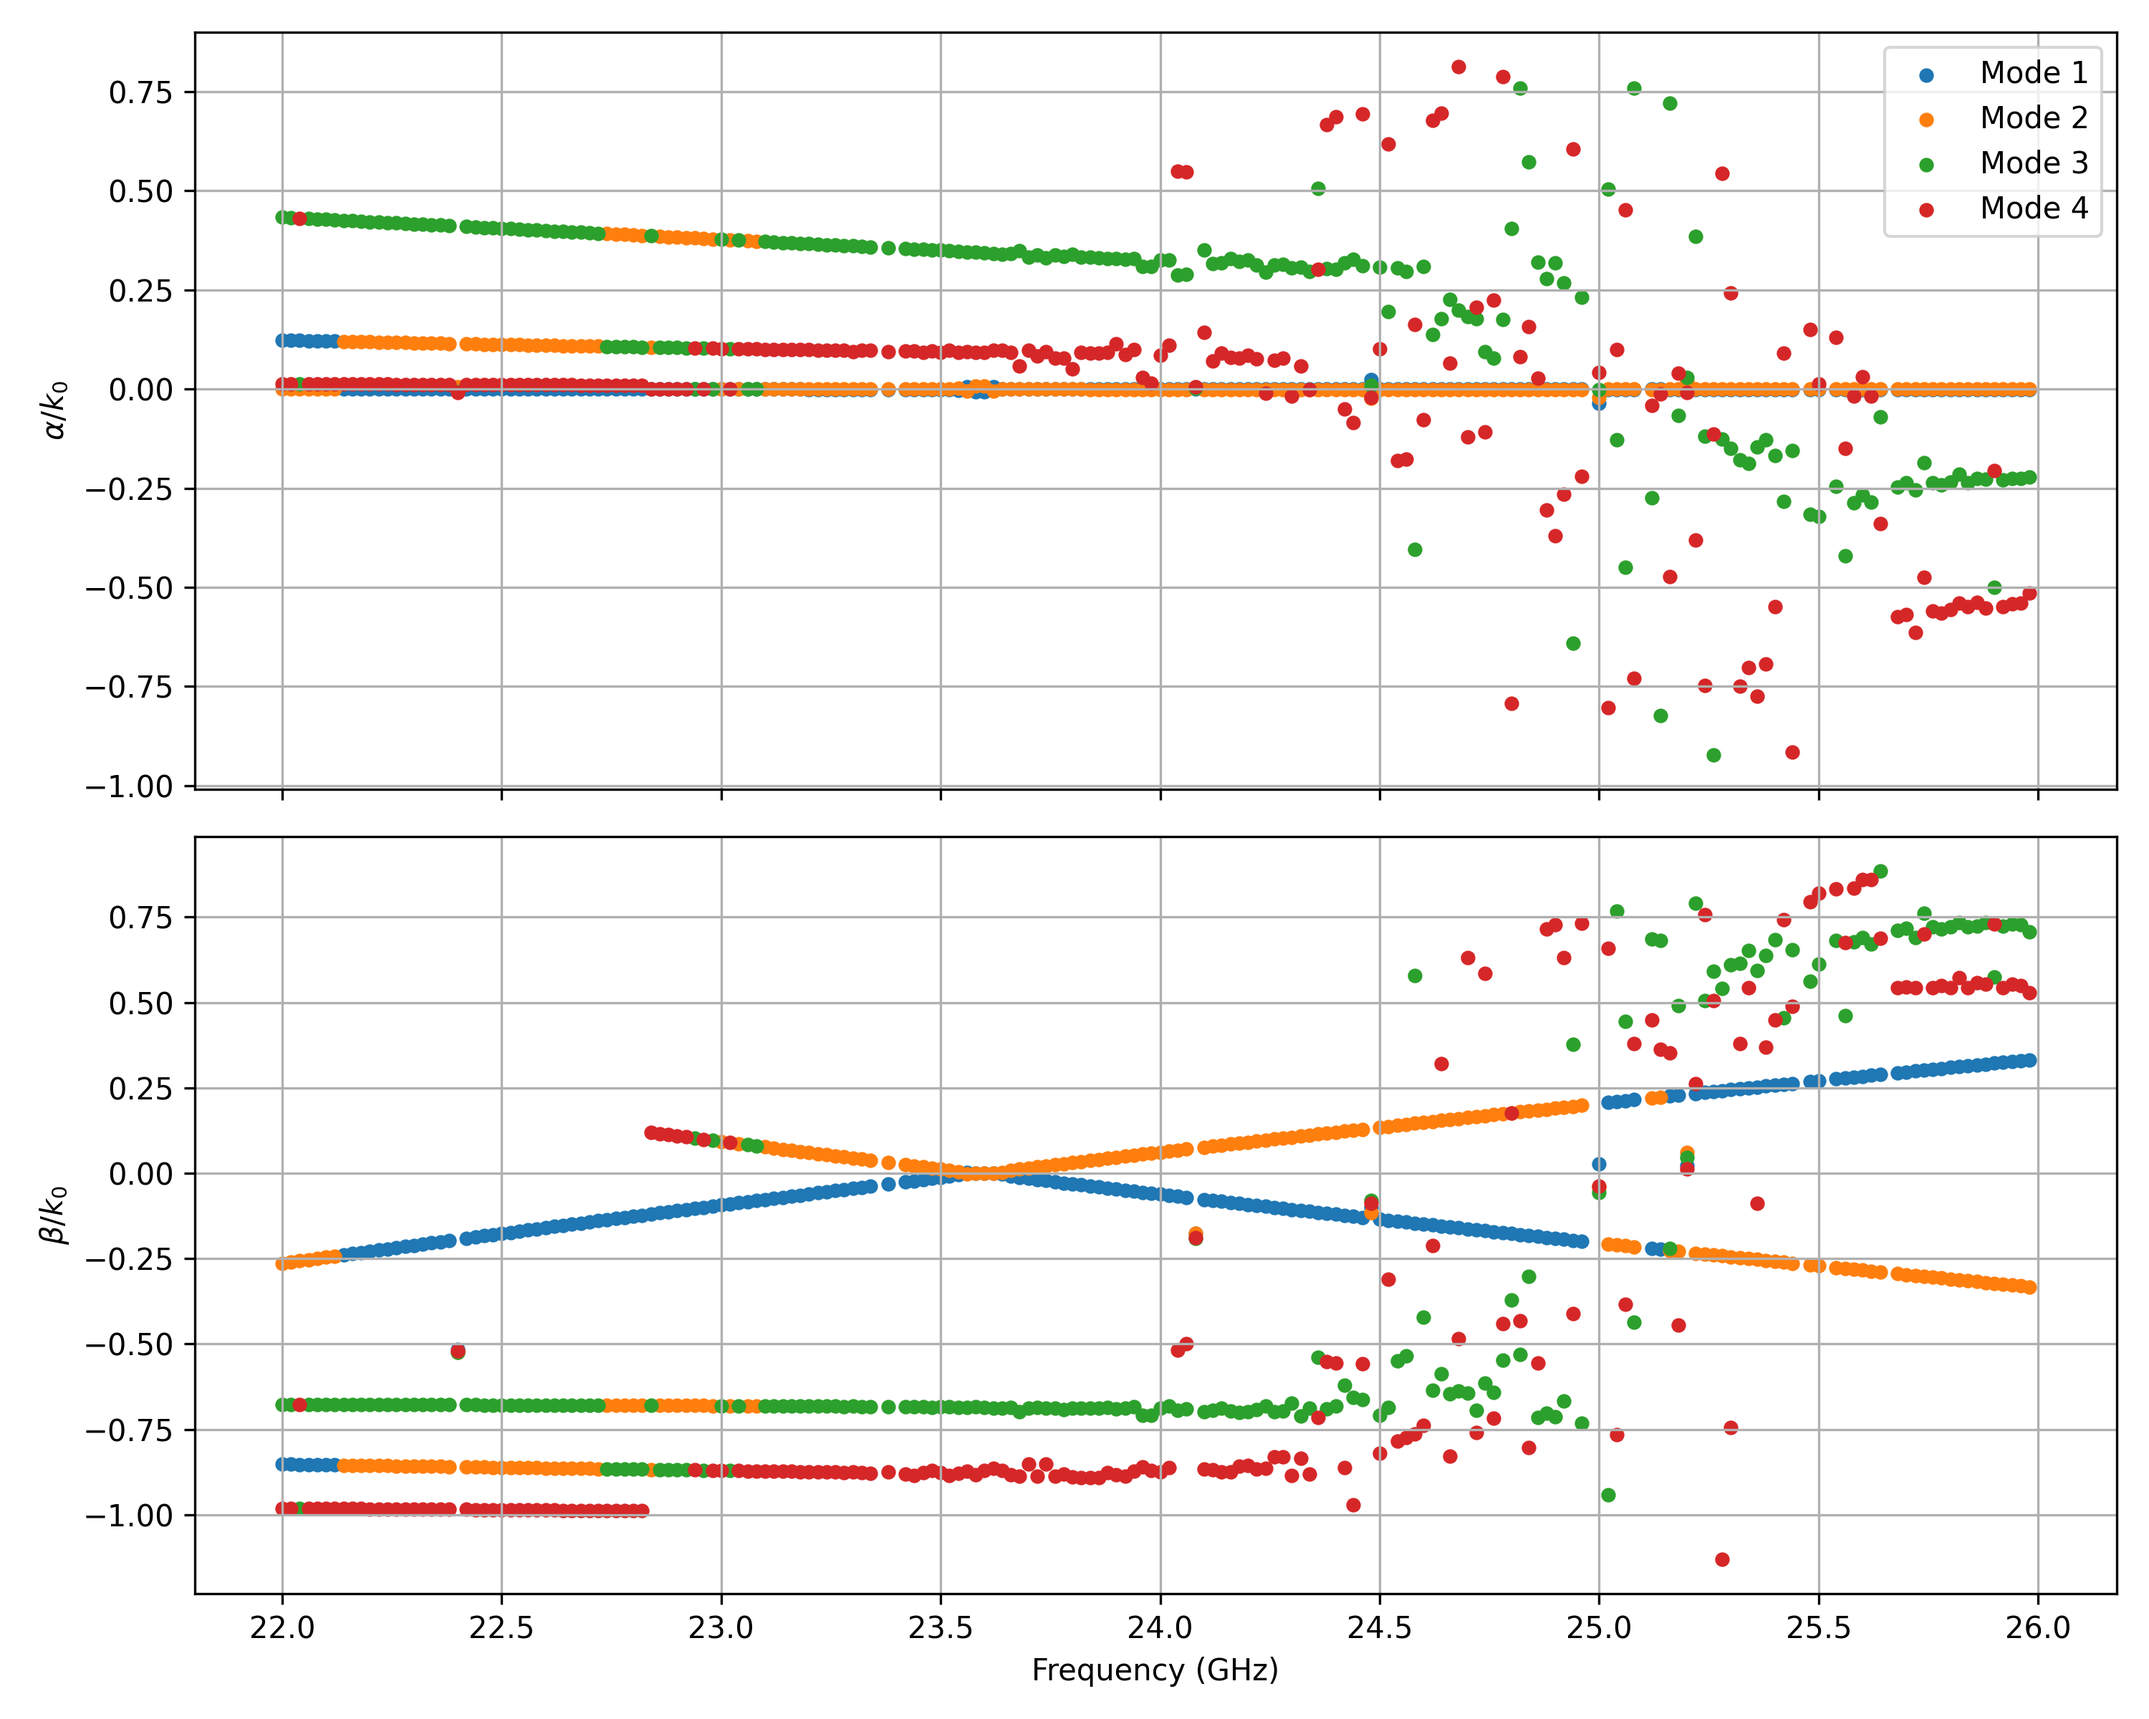
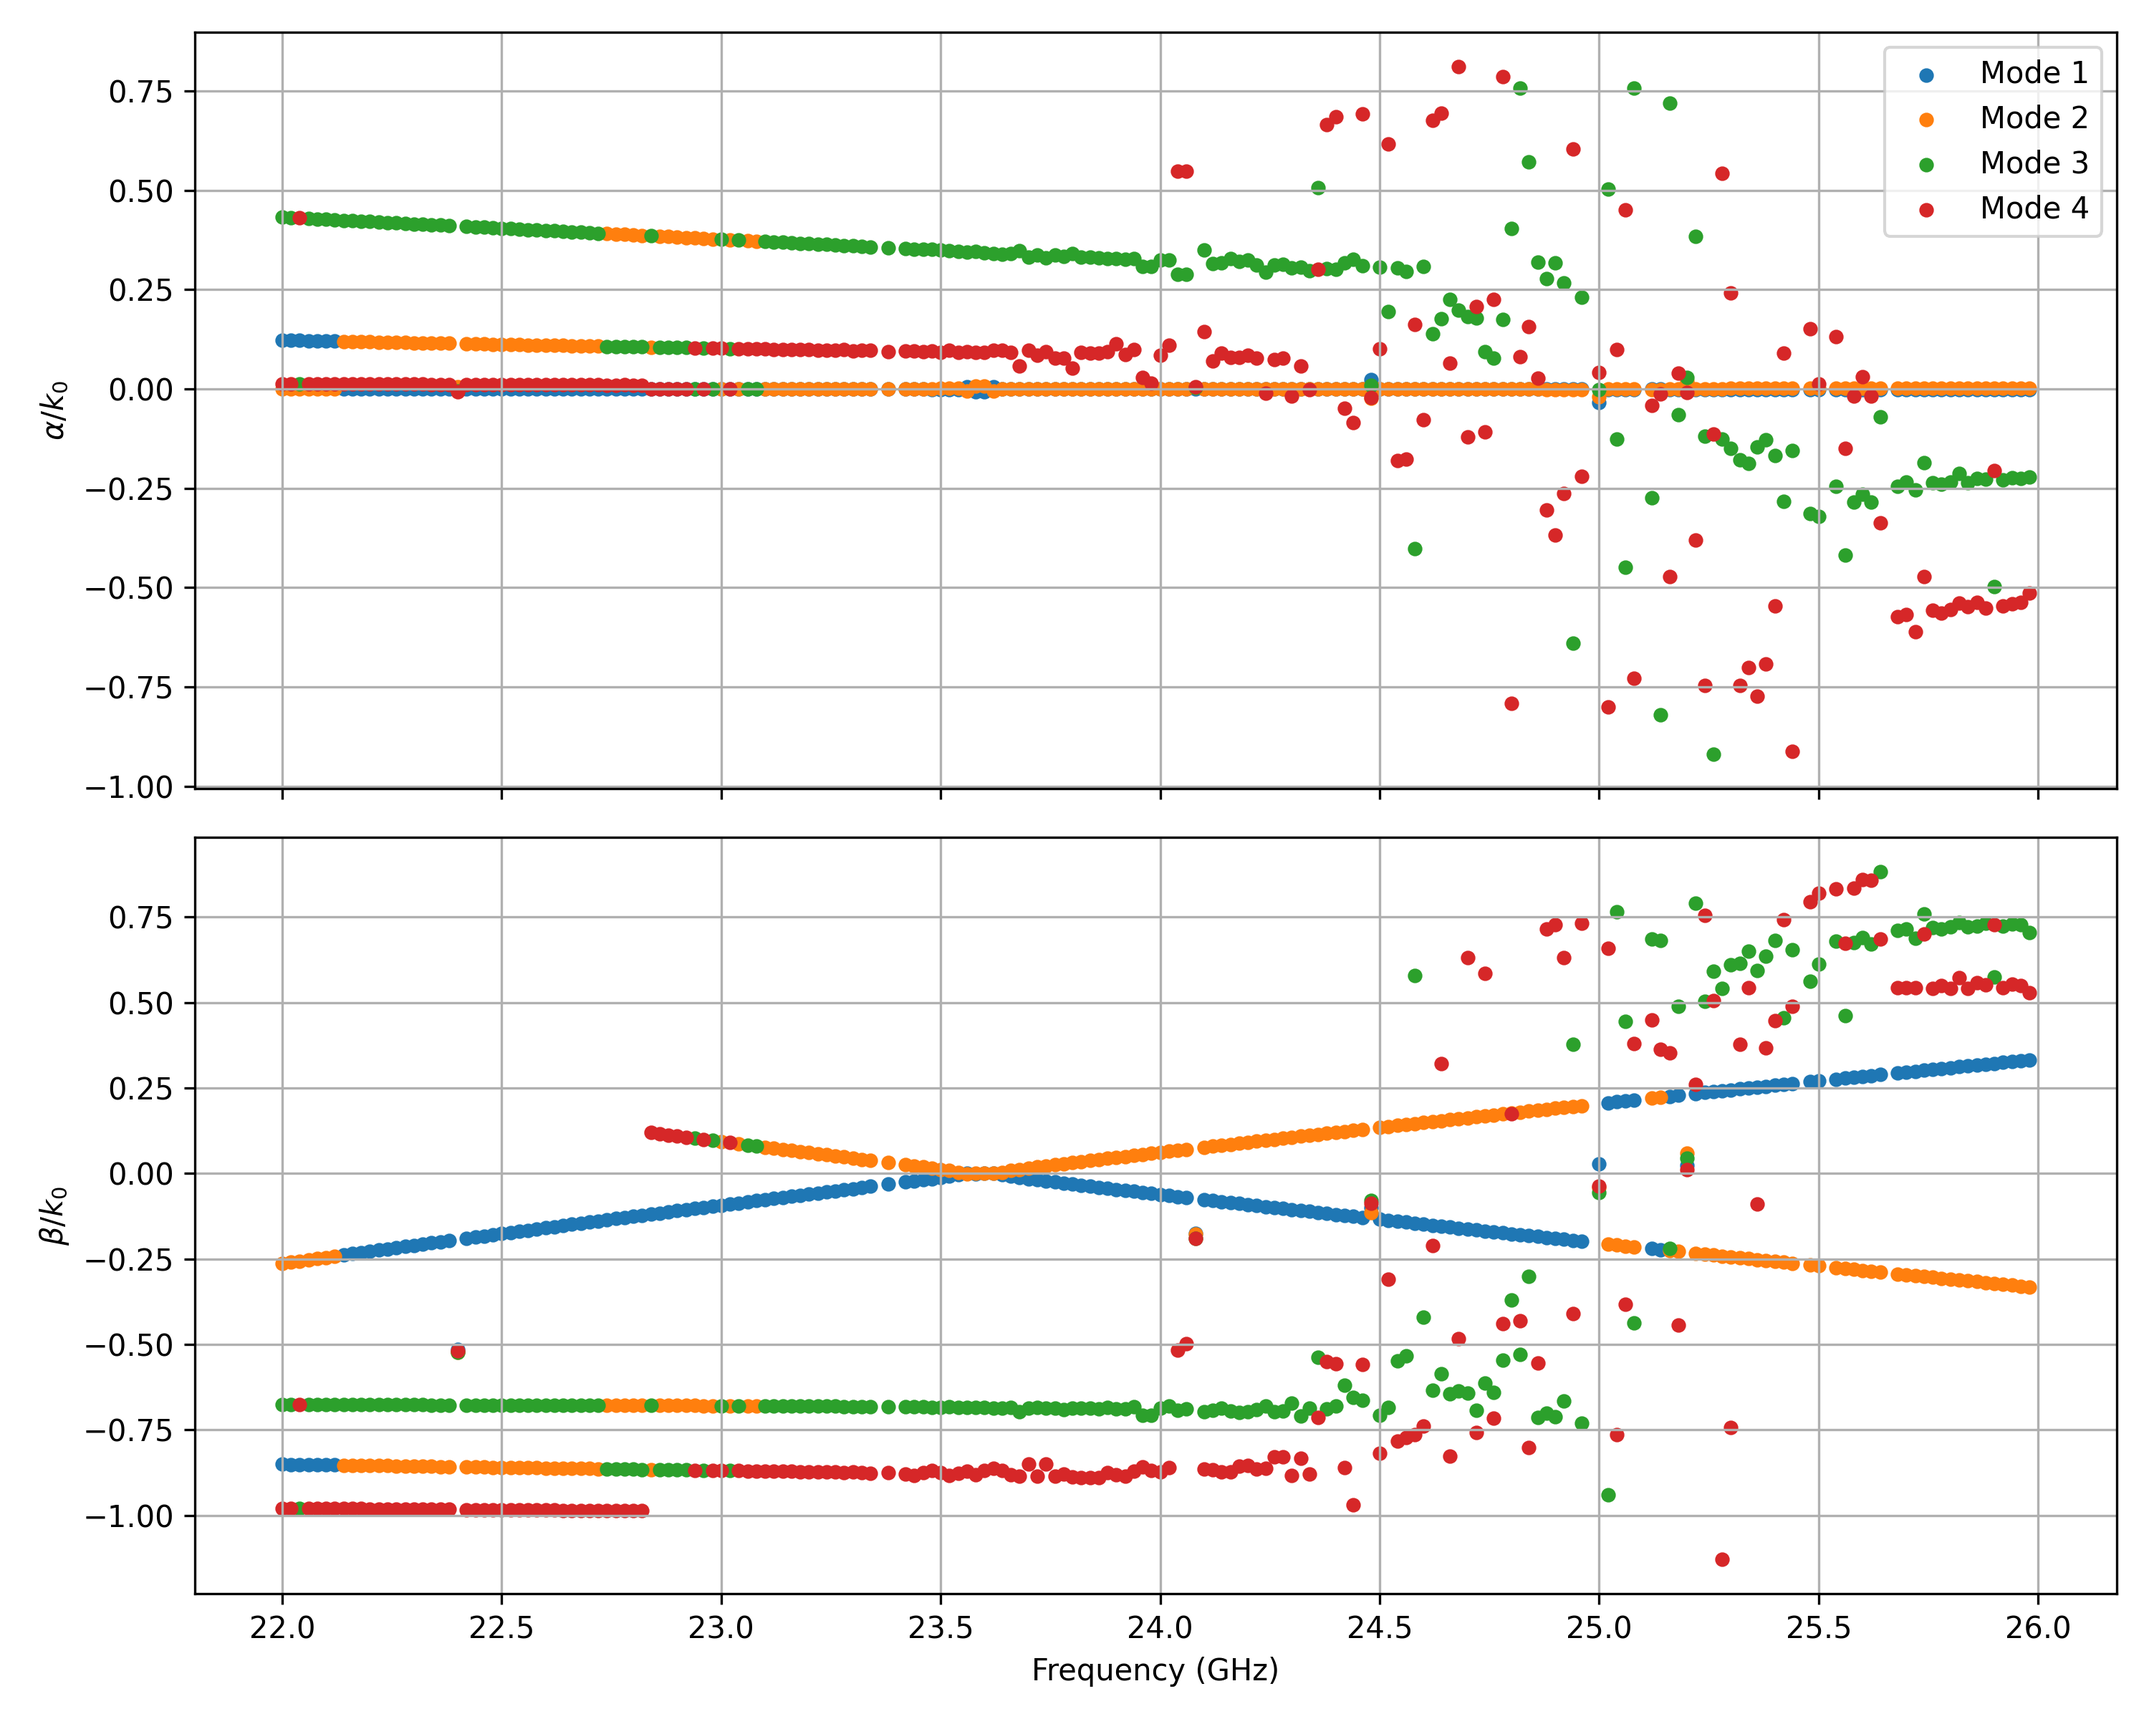
Update the 3D solver

diff --git a/Periodic_3D/Periodic_Mode_Solver_3D.py b/Periodic_3D/Periodic_Mode_Solver_3D.py
@@ -9,7 +9,7 @@ from scipy.sparse.linalg import eigs
 
 
 class Periodic_3D_Mode_Solver:
-    def __init__(self, Nx, Ny, Nz, x_range, y_range, z_range, freq, num_modes, sigma_guess_func=None, tol=0):
+    def __init__(self, Nx, Ny, Nz, x_range, y_range, z_range, freq, num_modes, sigma_guess_func=None, tol=0, ncv=None):
         # Store parameters
         self.Nx = Nx
         self.Ny = Ny
@@ -33,6 +33,7 @@ class Periodic_3D_Mode_Solver:
             self.sigma_guess = 0
 
         self.tol = tol
+        self.ncv = ncv
 
         # Grids
         self.Ix, self.Iy, self.Iz = eye(Nx), eye(Ny), eye(Nz)
@@ -177,7 +178,8 @@ class Periodic_3D_Mode_Solver:
                   [Zero, Zero, B_diag.conj().T, Zero], [Zero, Zero, Zero, B_diag.conj().T]]).tocsr()
 
         # Solve
-        self.eigenvalues, self.eigenvectors = eigs(A, M=B, k=self.num_modes, sigma=self.sigma_guess, tol=self.tol)
+        self.eigenvalues, self.eigenvectors = eigs(A, M=B, k=self.num_modes, sigma=self.sigma_guess, tol=self.tol,
+                                                   ncv=self.ncv)
         self.gammas = self.eigenvalues / self.k0
         self.store_fields()
 

diff --git a/Periodic_2D/Periodic_Mode_Solver.py b/Periodic_2D/Periodic_Mode_Solver.py
@@ -9,7 +9,7 @@ from scipy.sparse.linalg import eigs
 
 
 class TM_Mode_Solver:
-    def __init__(self, freq=24e9, x_range=20e-3, z_range=5e-3, Nx=200, Nz=50, num_modes=6, guess=0):
+    def __init__(self, freq=24e9, x_range=20e-3, z_range=5e-3, Nx=200, Nz=50, num_modes=6, guess=0, tol=0, ncv=None):
         self.freq = freq
         self.Nx, self.Nz = Nx, Nz
         self.dx, self.dz = x_range / Nx, z_range / Nz
@@ -25,6 +25,9 @@ class TM_Mode_Solver:
         self.guess = guess
         self.eigenvectors = None
         self.gammas = None
+
+        self.tol = tol
+        self.ncv = ncv
 
         self._init_operators()
         self._init_materials()
@@ -312,7 +315,7 @@ class TE_Mode_Solver:
         A = bmat([[self.DHZ, D1], [D2, self.DEZ]]).tocsr()
         B = bmat([[self.D3, Zero], [Zero, self.D4]]).tocsr()
 
-        eigenvalues, eigenvectors = eigs(A, M=B, k=self.num_modes, sigma=self.guess)
+        eigenvalues, eigenvectors = eigs(A, M=B, k=self.num_modes, sigma=self.guess, tol=tol, ncv=ncv)
         self.eigenvectors = eigenvectors
         self.gammas = eigenvalues / self.k0
 

diff --git a/Periodic_2D/Freq_Sweep.py b/Periodic_2D/Freq_Sweep.py
@@ -33,7 +33,7 @@ for f in tqdm(frequencies, desc="Frequency sweep"):
     sigma_guess = guess_func(f) if guess_func else 0
 
     solver = TM_Mode_Solver(freq=f, x_range=x_range, z_range=z_range, Nx=Nx, Nz=Nz, num_modes=num_modes,
-                            guess=sigma_guess)
+                            guess=sigma_guess, ncv=None)
     # Define structure
     solver.add_object(-1e8, 1, x_indices=[161], z_indices=range(0, 14))
     solver.add_object(3, 1, x_indices=range(162, 177), z_indices=range(solver.Nz))

diff --git a/Periodic_3D/3D_Field_Visualization.py b/Periodic_3D/3D_Field_Visualization.py
@@ -8,7 +8,7 @@ Nz = 28
 
 solver = Periodic_3D_Mode_Solver(Nx=Nx, Ny=Ny, Nz=Nz,
                                  x_range=7.8e-3, y_range=6e-3, z_range=5.7e-3,
-                                 freq=22e9, num_modes=2, tol=1e-2)
+                                 freq=22e9, num_modes=2, tol=0.1)
 
 # Build waveguide unit cell
 solver.add_object(1e8, 1, slice(0, Nx), slice(Ny - 31, Ny - 30), slice(0, Nz))
